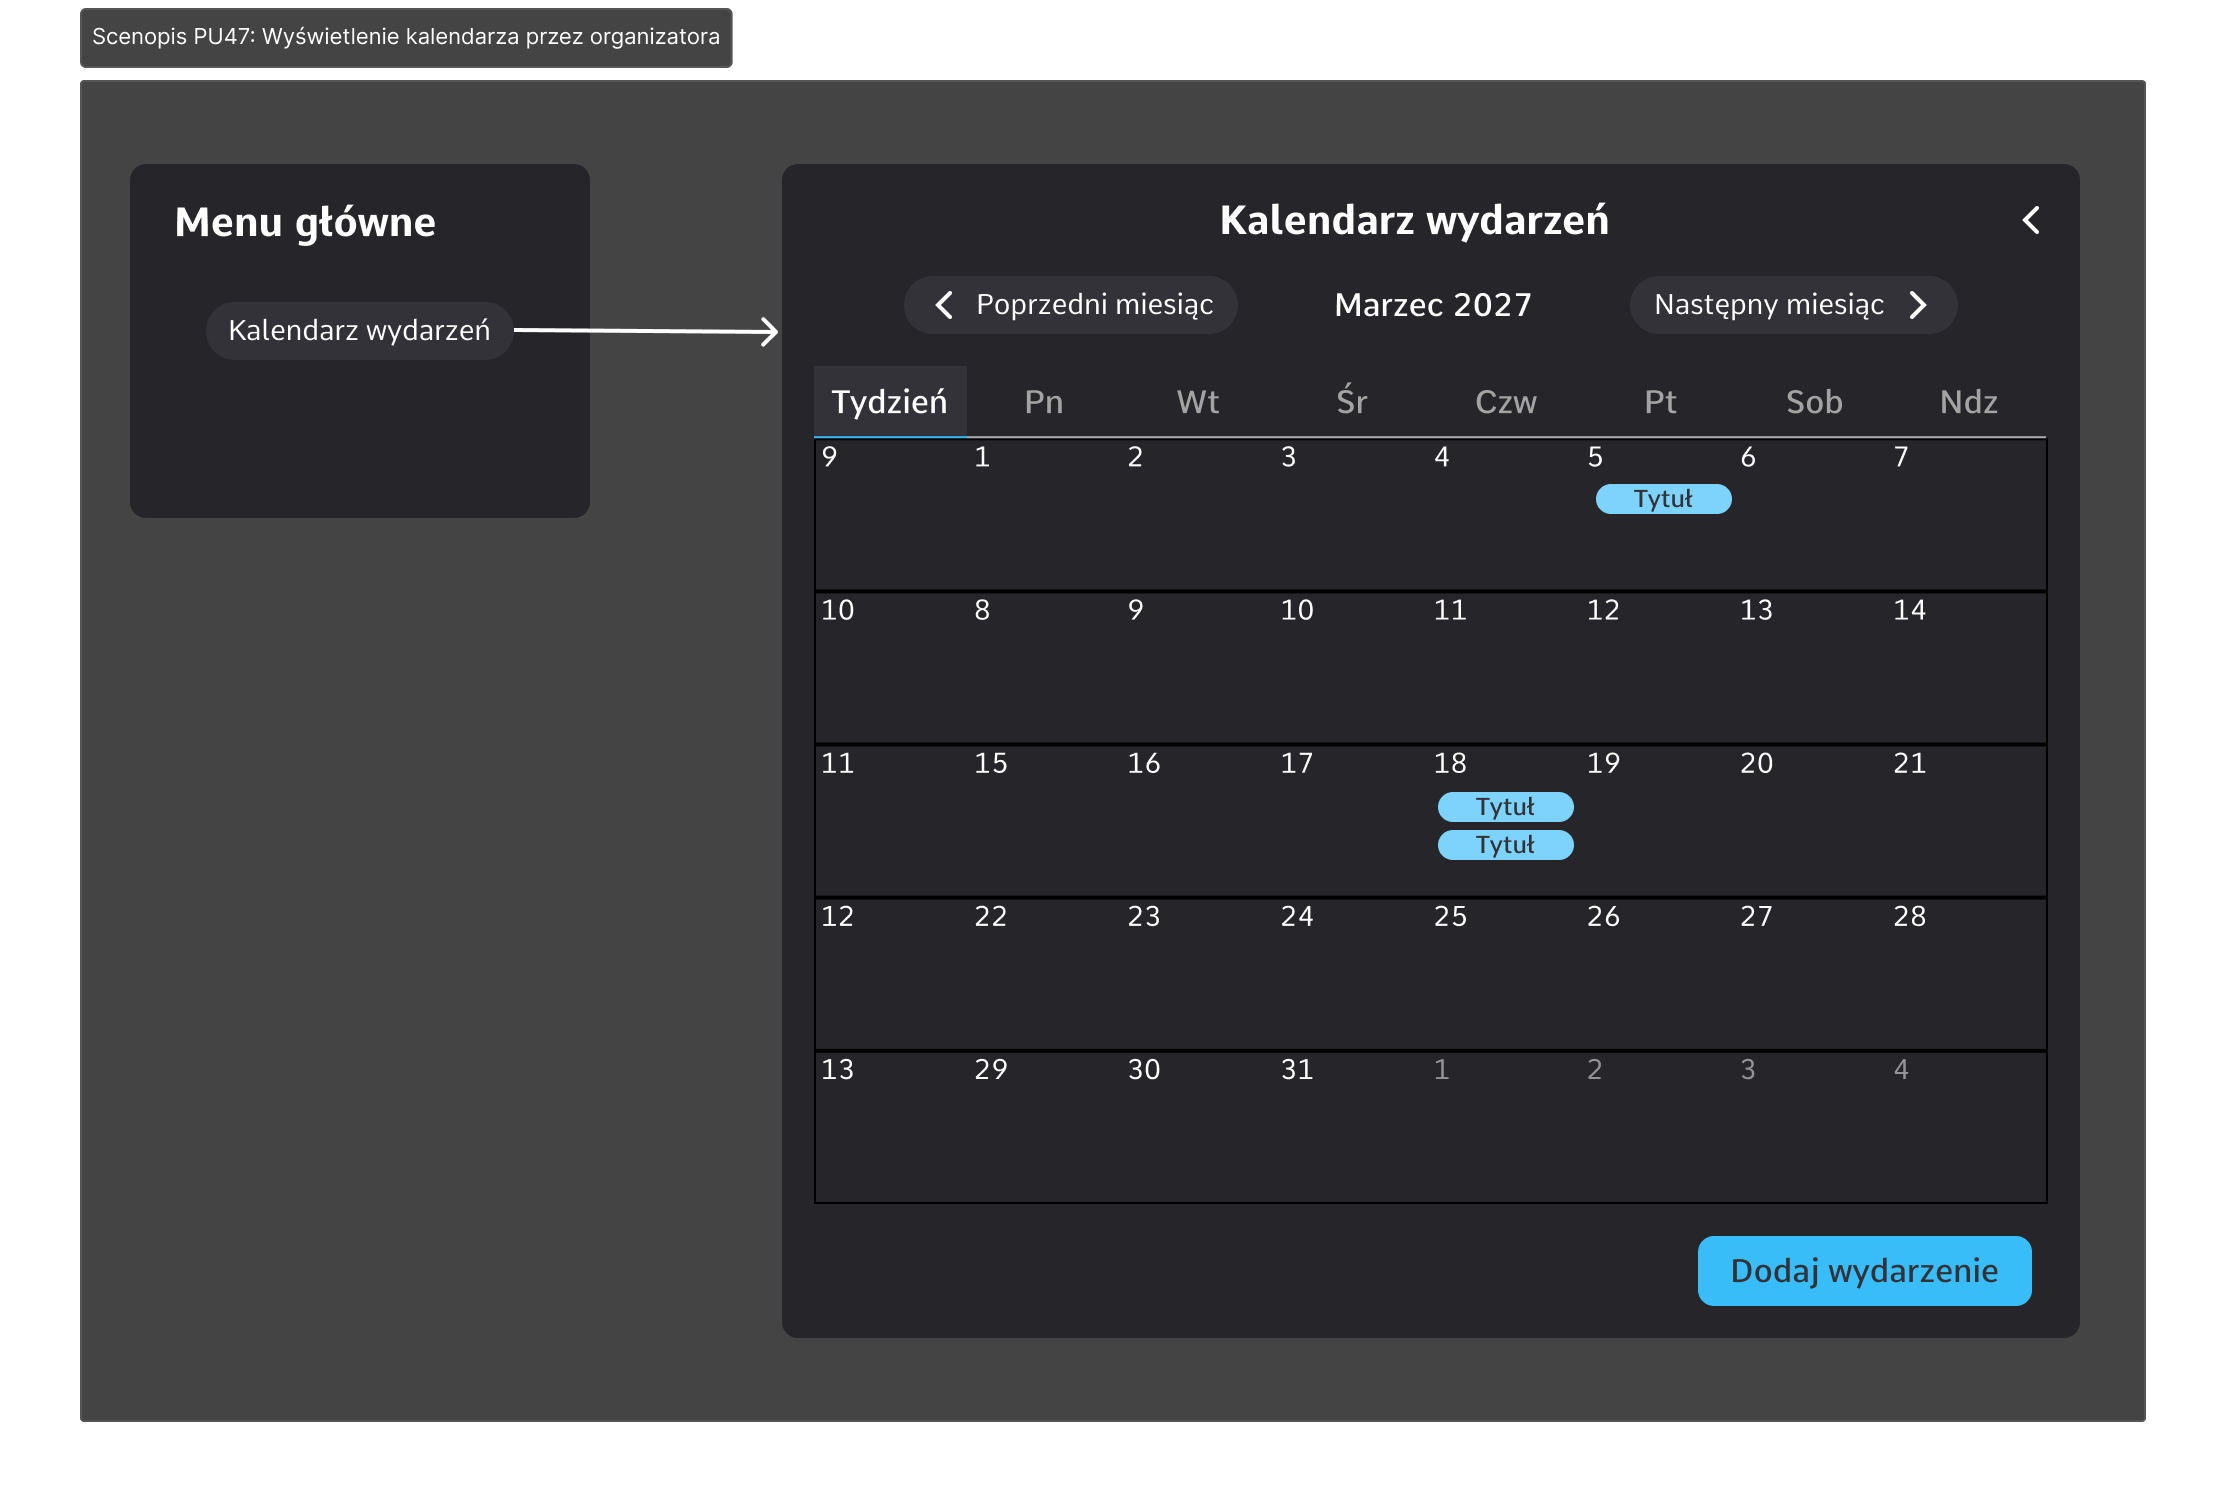
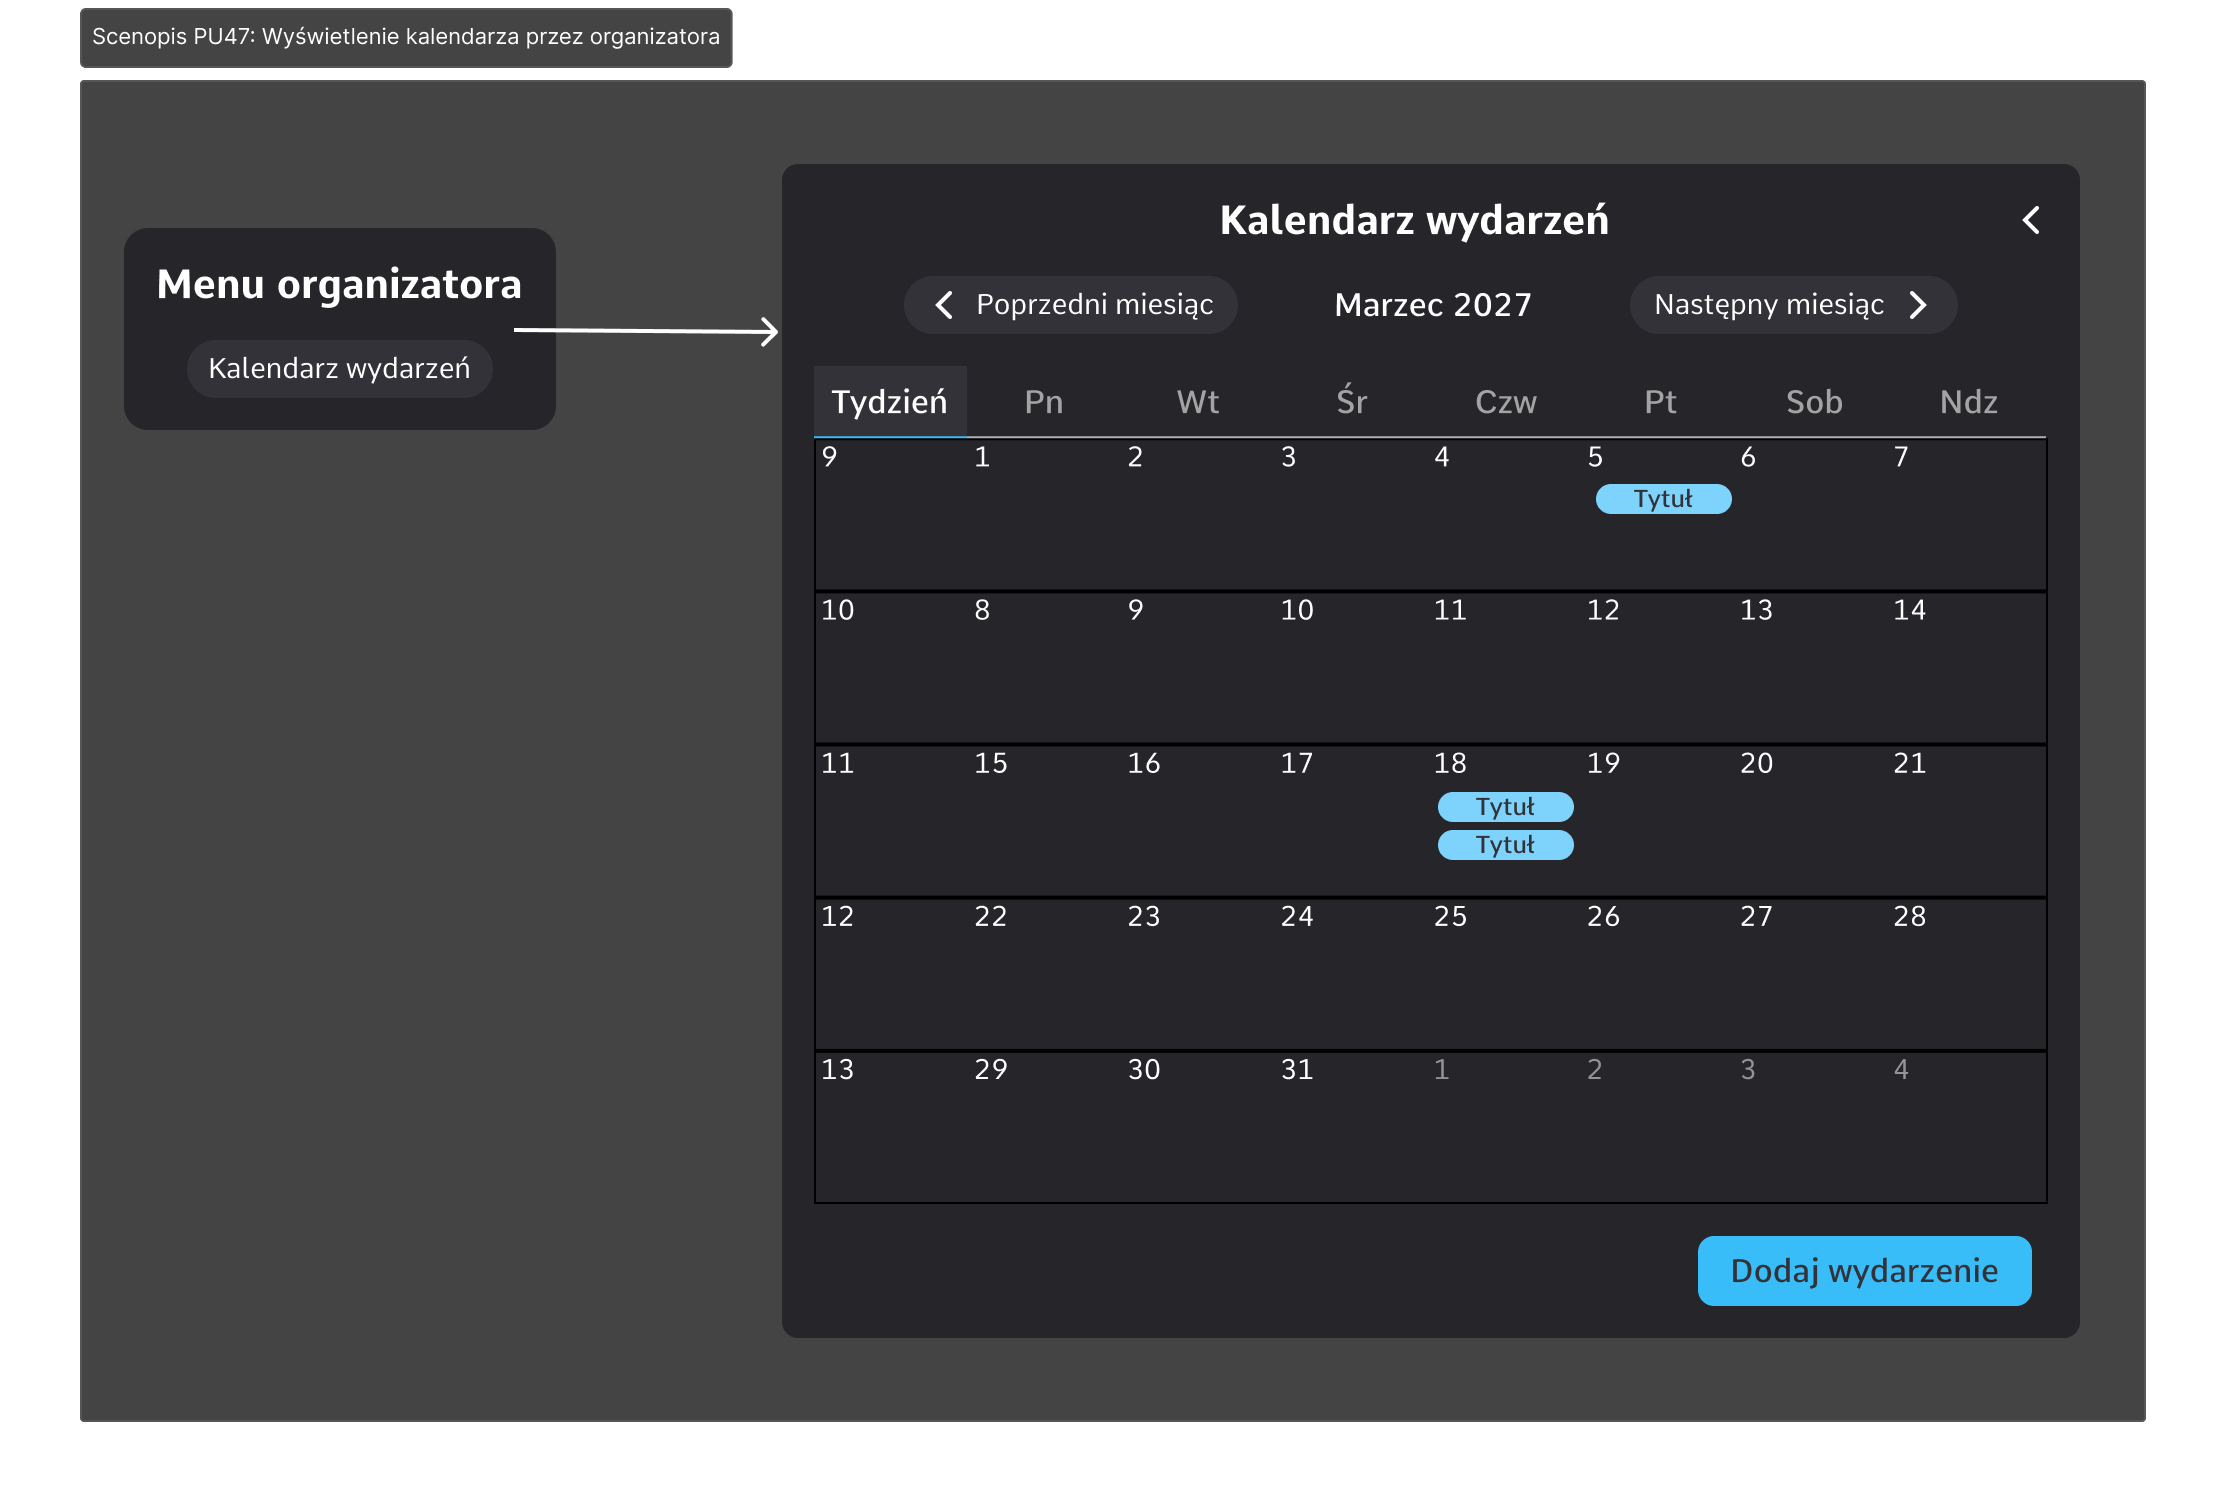
uaktualnienie scenopisów

Changed region(s): [[0.031, 0.0919, 0.279, 0.3675]]

diff --git a/README.md b/README.md
@@ -2823,7 +2823,7 @@ Powrót do kroku 3. w scenariuszu głównym
 - Wydanie: 1.0
 - Aktor główny: Organizator
 - Specjalizacja: [PU1: Wyświetlenie kalendarza](#pu1-wyświetlenie-kalendarza)
-- Warunek początkowy: Organizator jest zalogowany i znajduje się w menu głównym aplikacji.
+- Warunek początkowy: Organizator jest zalogowany i znajduje się w menu organizatora.
 - Warunek końcowy (success): Wyświetlony kalendarz
 
 **Scenariusz główny**